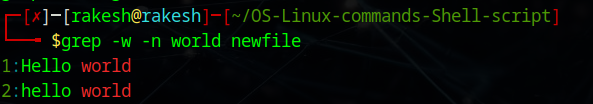
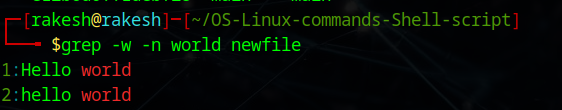
COMPARING FILES

diff --git a/README.md b/README.md
@@ -103,13 +103,7 @@ cat > newfile
 Hello world
 hello world
 ^d
-````
-cat > newfile
-``` 
-Hello world
-hello world
- ^d
-``
+```
 grep Hello newfile 
 ## OUTPUT
 ![Alt text](grep.png)
